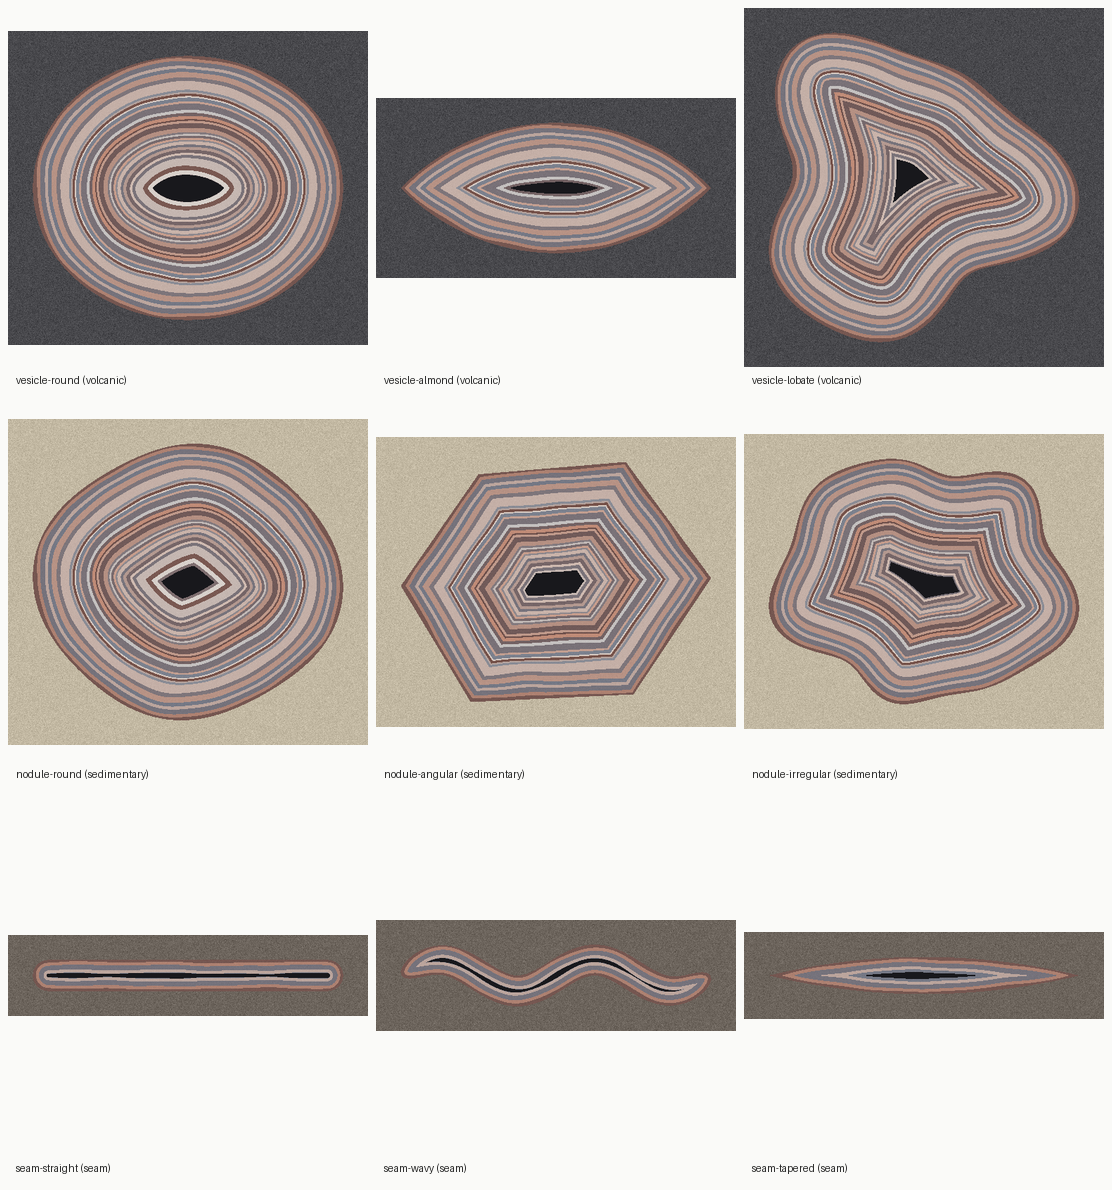
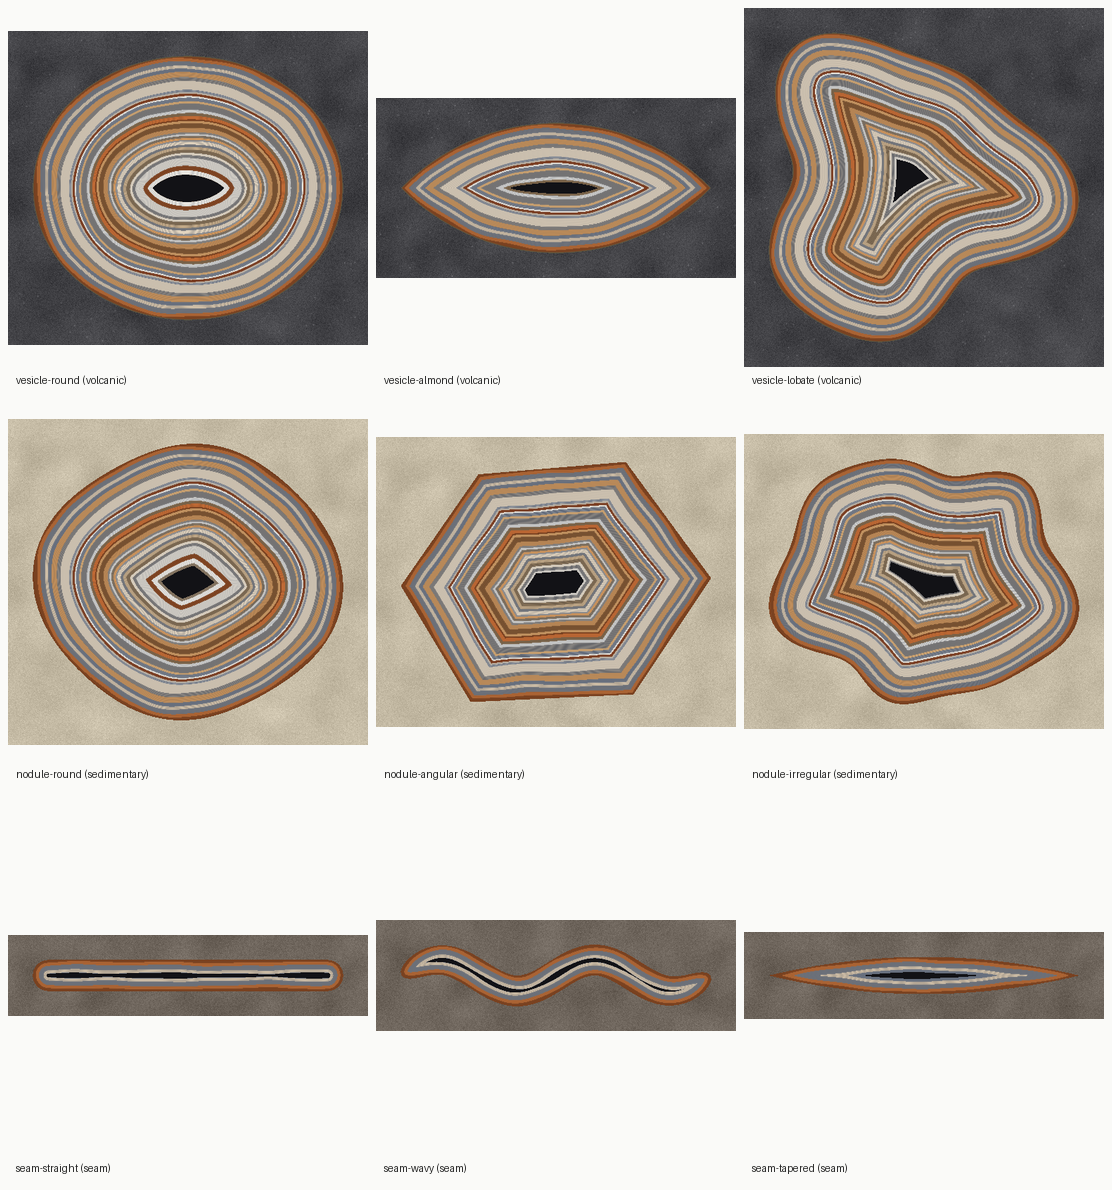
Rendering touch-up; plan specimen photo analysis (ADR 0006)
Renderer: fine sub-banding within bands, glow in translucent bands,
ochre-to-deep-red iron palette, mottled host rock with phenocryst specks,
celadonite rind for volcanic hosts. Noise smoothed periodically to avoid
edge artefacts. Render tests added.

ADR 0006 plans photo upload, identification via the archetype criteria,
and replication; roadmap gains M7 and M10 for specimen analysis.

diff --git a/src/agatesim/render.py b/src/agatesim/render.py
@@ -1,8 +1,14 @@
 """Render a polished-slab view of a result in reflected light.
 
-A first, non-physical renderer (the optical renderer is M6). Under reflected
-light, milky bands look bright, clear bands look dark (light enters and is lost),
-and iron staining tints toward rust.
+A non-physical, appearance-only renderer; the optical renderer arrives in M6.
+It reads only Fields and geometry, so it works for any model. Under reflected
+light on a polished slab:
+
+- milky (opaque) bands scatter light back and look bright;
+- clear bands let light in and look dark blue-grey, with a soft glow from
+  material beneath (approximated by blending in a blurred copy);
+- iron staining tints from ochre through orange to deep red as it increases;
+- each band carries faint finer banding, as natural chalcedony does.
 """
 
 from __future__ import annotations
@@ -11,39 +17,111 @@ import numpy as np
 from numpy.typing import NDArray
 from PIL import Image
 
+from agatesim import _scipy
 from agatesim.archetypes import Host
 from agatesim.fields import Phase
+from agatesim.grid import FloatArray
 from agatesim.simulate import SimulationResult
 
-MILKY = np.array([236.0, 233.0, 226.0])
-CLEAR = np.array([104.0, 114.0, 132.0])
-RUST = np.array([168.0, 66.0, 30.0])
-VOID = np.array([24.0, 24.0, 28.0])
+MILKY = np.array([238.0, 235.0, 228.0])
+CLEAR = np.array([86.0, 96.0, 114.0])
+VOID = np.array([18.0, 18.0, 22.0])
+CELADONITE = np.array([78.0, 98.0, 84.0])  # greenish rind typical of volcanic agates
+# Iron-stain palette: (impurity, colour), interpolated piecewise-linearly.
+STAIN = [
+    (0.0, np.array([214.0, 196.0, 160.0])),
+    (0.35, np.array([204.0, 146.0, 72.0])),
+    (0.65, np.array([182.0, 74.0, 36.0])),
+    (1.0, np.array([118.0, 30.0, 22.0])),
+]
 HOST = {
-    Host.VOLCANIC: np.array([72.0, 72.0, 76.0]),
-    Host.SEDIMENTARY: np.array([194.0, 184.0, 162.0]),
-    Host.SEAM: np.array([108.0, 100.0, 92.0]),
+    Host.VOLCANIC: np.array([66.0, 66.0, 70.0]),
+    Host.SEDIMENTARY: np.array([196.0, 186.0, 164.0]),
+    Host.SEAM: np.array([110.0, 101.0, 92.0]),
 }
+
+SUB_BAND_STRENGTH = 0.35
+GLOW_SIGMA_MM = 0.12
+RIND_MM = 0.25
+
+
+def _stain_colour(iron: FloatArray) -> FloatArray:
+    xs = np.array([p for p, _ in STAIN])
+    return np.stack([np.interp(iron, xs, [c[i] for _, c in STAIN]) for i in range(3)], axis=-1)
+
+
+def _smoothstep(lo: float, hi: float, x: FloatArray) -> FloatArray:
+    t = np.clip((x - lo) / (hi - lo), 0.0, 1.0)
+    return t * t * (3 - 2 * t)
+
+
+def _masked_blur(rgb: FloatArray, mask: NDArray[np.bool_], sigma_px: float) -> FloatArray:
+    """Gaussian blur of `rgb` using only pixels in `mask`, so host rock doesn't bleed in."""
+    weight = _scipy.gaussian(mask.astype(np.float64), sigma_px)
+    weight[weight == 0] = 1.0
+    channels = [_scipy.gaussian(rgb[..., i] * mask, sigma_px) / weight for i in range(3)]
+    return np.stack(channels, axis=-1)
+
+
+def _sub_banding(result: SimulationResult) -> FloatArray:
+    """Faint finer banding within each band, from deposition time, in -1..1."""
+    f = result.fields
+    n = int(f.band.max()) + 1
+    if n <= 0:
+        return np.zeros(result.grid.shape)
+    rng = np.random.default_rng(result.config.seed + 2)
+    cycles = rng.uniform(2.0, 6.0, n)  # fine bands per coarse band
+    amplitude = rng.uniform(0.0, 1.0, n) ** 2  # most bands faint, a few strong
+    phase = rng.uniform(0.0, 2 * np.pi, n)
+    b = np.maximum(f.band, 0)
+    t = np.nan_to_num(f.t_dep.astype(np.float64))
+    return amplitude[b] * np.sin(2 * np.pi * t * n * cycles[b] + phase[b])
+
+
+def _host_rock(result: SimulationResult) -> FloatArray:
+    shape = result.grid.shape
+    dx = result.grid.dx
+    rng = np.random.default_rng(result.config.seed + 1)
+    mottle = _scipy.gaussian(rng.standard_normal(shape), 1.5 / dx, wrap=True)
+    mottle /= float(mottle.std()) or 1.0
+    grain = rng.normal(0.0, 1.0, shape)
+    host = result.domain.cavity.host
+    base = HOST[host]
+    rock = base + (4.0 * mottle + 7.0 * grain)[..., None]
+    if host is Host.VOLCANIC:  # sparse, faint pale phenocryst specks
+        specks = _scipy.gaussian(
+            (rng.random(shape) < 0.0006).astype(np.float64), 0.08 / dx, wrap=True
+        )
+        rock += (40.0 * specks / (float(specks.max()) or 1.0))[..., None]
+    return rock
 
 
 def render_slab(result: SimulationResult) -> NDArray[np.uint8]:
     f = result.fields
-    shape = result.grid.shape
-    rng = np.random.default_rng(result.config.seed + 1)
-    grain = rng.normal(0.0, 1.0, (*shape, 1))
-
-    trans = f.translucency[..., None].astype(np.float64)
-    iron = f.impurity[..., None].astype(np.float64)
-    base = CLEAR * trans + MILKY * (1 - trans)
-    stained = RUST * (0.55 + 0.45 * (1 - trans))  # stains look darker in clear bands
-    chalcedony = base * (1 - iron) + stained * iron + 2.5 * grain
-
-    rgb = np.empty((*shape, 3))
+    dx = result.grid.dx
     phase = f.phase
-    rgb[:] = HOST[result.domain.cavity.host] + 9.0 * grain
+    chal = phase == Phase.CHALCEDONY
+
+    trans = np.clip(f.translucency + SUB_BAND_STRENGTH * 0.5 * _sub_banding(result), 0.0, 1.0)
+    iron = f.impurity.astype(np.float64)
+
+    body = CLEAR * trans[..., None] + MILKY * (1 - trans[..., None])
+    stain = _stain_colour(iron) * (0.55 + 0.45 * (1 - trans))[..., None]
+    strength = _smoothstep(0.05, 0.55, iron)[..., None]
+    colour = body * (1 - strength) + stain * strength
+
+    # Light entering clear bands returns softened by the material beneath.
+    glow = _masked_blur(colour, chal, GLOW_SIGMA_MM / dx)
+    mix = (0.45 * trans)[..., None]
+    colour = colour * (1 - mix) + glow * mix
+
+    if result.domain.cavity.host is Host.VOLCANIC:
+        rind = _smoothstep(RIND_MM, 0.0, result.domain.wall_distance)[..., None] * 0.7
+        colour = colour * (1 - rind) + CELADONITE * rind
+
+    rgb = _host_rock(result)
     rgb[phase == Phase.VOID] = VOID
-    is_chalcedony = phase == Phase.CHALCEDONY
-    rgb[is_chalcedony] = chalcedony[is_chalcedony]
+    rgb[chal] = colour[chal]
     return np.clip(np.rint(rgb), 0, 255).astype(np.uint8)
 
 

diff --git a/tests/test_render.py b/tests/test_render.py
@@ -1,0 +1,34 @@
+import numpy as np
+
+from agatesim.config import load_preset
+from agatesim.fields import Phase
+from agatesim.render import render_slab
+from agatesim.simulate import simulate
+
+
+def test_render_shape_and_determinism() -> None:
+    result = simulate(load_preset("fortification").with_resolution(192))
+    a, b = render_slab(result), render_slab(result)
+    assert a.shape == (*result.grid.shape, 3)
+    assert a.dtype == np.uint8
+    np.testing.assert_array_equal(a, b)
+
+
+def test_milky_bands_are_brighter_than_clear_bands() -> None:
+    result = simulate(load_preset("waterline").with_resolution(256))
+    rgb = render_slab(result).astype(np.float64).mean(axis=-1)
+    f = result.fields
+    chal = f.phase == Phase.CHALCEDONY
+    low_iron = chal & (f.impurity < 0.1)
+    milky = low_iron & (f.translucency < 0.3)
+    clear = low_iron & (f.translucency > 0.7)
+    assert milky.any()
+    assert clear.any()
+    assert rgb[milky].mean() > rgb[clear].mean() + 40
+
+
+def test_void_renders_dark() -> None:
+    result = simulate(load_preset("waterline").with_resolution(128))
+    rgb = render_slab(result)
+    void = result.fields.phase == Phase.VOID
+    assert rgb[void].max() < 40

diff --git a/src/agatesim/_scipy.py b/src/agatesim/_scipy.py
@@ -32,8 +32,11 @@ def nearest_true_indices(mask: NDArray[np.bool_]) -> NDArray[np.int64]:
     return cast(NDArray[np.int64], result[1])
 
 
-def gaussian(field: FloatArray, sigma: float) -> NDArray[np.float64]:
-    return cast(NDArray[np.float64], ndimage.gaussian_filter(field, sigma=sigma, mode="nearest"))
+def gaussian(field: FloatArray, sigma: float, *, wrap: bool = False) -> NDArray[np.float64]:
+    """Gaussian blur. `wrap` treats the field as periodic, for smoothing noise
+    without edge artefacts."""
+    mode = "wrap" if wrap else "nearest"
+    return cast(NDArray[np.float64], ndimage.gaussian_filter(field, sigma=sigma, mode=mode))
 
 
 def bilinear(field: FloatArray, rows: FloatArray, cols: FloatArray):

diff --git a/src/agatesim/models/base.py b/src/agatesim/models/base.py
@@ -93,7 +93,7 @@ def smooth_noise(domain: Domain, scale_mm: float, rng: np.random.Generator) -> F
     x_lo, y_hi = xmin - pad, ymax + pad
     n_cols = math.ceil((xmax - xmin + 2 * pad) / h) + 1
     n_rows = math.ceil((ymax - ymin + 2 * pad) / h) + 1
-    lattice = _scipy.gaussian(rng.standard_normal((n_rows, n_cols)), sigma=4.0)
+    lattice = _scipy.gaussian(rng.standard_normal((n_rows, n_cols)), sigma=4.0, wrap=True)
     lattice /= float(lattice.std()) or 1.0
     xx, yy = domain.grid.coords()
     return _scipy.bilinear(lattice, (y_hi - yy) / h, (xx - x_lo) / h)

diff --git a/docs/adr/0006-specimen-photo-analysis.md b/docs/adr/0006-specimen-photo-analysis.md
@@ -1,0 +1,71 @@
+# 6. Specimen photo analysis: identify, measure, replicate
+
+- Status: accepted (plan; implementation in M7 and M10)
+- Date: 2026-10-15
+
+## Context
+
+The owner wants users to be able to provide specimen photos, and agatesim to
+**identify** the archetypal forms in a photo, **analyze** them, and **replicate**
+them in simulation. This is an inverse problem, harder than forward simulation.
+Photos vary in lighting, polish, viewing angle and scale, and a photo shows only
+the appearance of a single cut surface.
+
+## Decision
+
+Treat a photo as one more producer of **observed fields**, judged by the same
+machinery as simulations.
+
+```
+photo ─► observed fields ─► archetype criteria ─► identification (which forms pass)
+                          └► band statistics  ─► parameter fit ─► replica run ─► side-by-side
+```
+
+1. **Same criteria, same contract.** Criteria already read only `Fields` plus
+   cavity geometry (ADR 0003). Photo analysis produces an estimated `Fields`, so
+   the archetype ladder identifies forms in photos with no separate classifier.
+   This keeps the criteria honest twice over: they must work on real agate, not
+   only on our own models.
+2. **Constrained input, stated plainly.** The supported input is a photo of a flat
+   cut or polished slab, taken roughly perpendicular, with a scale given (a scale
+   bar or an entered size). Other photos are rejected or flagged as low
+   confidence.
+3. **Human in the loop first.** The user confirms or traces the cavity outline,
+   using the M4 drawing tool, and the gravity direction if known. Automatic
+   segmentation suggests; it doesn't decide.
+4. **Staged implementation:**
+   - **M7: Specimen analysis I (structure).** Upload and scale. Outline. Band
+     boundaries from edge detection and an orientation (structure-tensor) field.
+     Estimate the band index, translucency and iron-stain fields. Run every
+     implemented criterion and report each form as identified, ambiguous or not
+     present, with values. Fit **procedural** parameters directly from measured
+     statistics (band spacing, contrast, fill level, gravity), run a replica, and
+     show it side by side with the photo.
+   - **M10: Specimen analysis II (mechanisms).** Simulation-based inference over
+     **mechanistic** parameters: which conditions, under which hypothesis,
+     reproduce this specimen, and with what uncertainty. Optionally a learned
+     classifier, trained on the reference set plus simulated data.
+5. **Reference set as test data.** The openly licensed specimen photos in
+   `references/images/` become regression tests for photo analysis. For example,
+   a photo catalogued as waterline banding must be identified as waterline.
+6. **Privacy.** Uploaded photos stay on the user's machine in the local app.
+   Nothing is sent anywhere. If a hosted version ever exists, uploads will need
+   their own policy.
+
+## Why not earlier, or larger
+
+- Identification needs the criteria for the forms in question, so analysis
+  follows the structural archetypes (M3–M5). Faithful visual comparison needs
+  the optical renderer (M6).
+- A learned classifier first would need many labelled specimens, and a
+  classifier can't explain its answer. Criteria-based identification can.
+
+## Consequences
+
+- New criteria must be robust on noisy, real-world fields, not just clean
+  simulation output. Photo analysis will expose criteria that are too fragile.
+- A shared `band statistics` module (spacing distribution, contrast, orientation
+  histogram) becomes the common language between runs and photos. It starts in
+  M3 for comparing runs.
+- Scope stays bounded: no 3D reconstruction from photos, and no analysis of
+  rough or unpolished specimens.

diff --git a/docs/roadmap.md b/docs/roadmap.md
@@ -6,10 +6,12 @@ Milestones end with a check-in: results, images, and the next decisions.
 |---|---|---|
 | **M0: Foundation** | Repository layout, ADRs, archetype registry (12 forms, all pending), reference catalogue, science notes draft, CI | done |
 | **M1: First procedural models** | 2D grid and exact cavity geometry; 9 preset cavity shapes (volcanic, sedimentary, seam); run config and records; procedural fortification, seam and waterline, verified with negative controls; `agatesim run` CLI; PNG output | done |
-| **M2: Web UI v1** | FastAPI backend; React app with parameter panel, preset shape menu, live preview, run browser, slab viewer | next |
-| **M3: Schedules and the combined form** | Conditions that vary over time; combined fortification–waterline; quartz-centre geode | |
+| **M2: Web UI v1** | Rendering touch-up; first openly licensed specimen photos; FastAPI backend; React app with parameter panel, preset shape menu, live preview, run browser, slab viewer | in progress |
+| **M3: Schedules and the combined form** | Conditions that vary over time; combined fortification–waterline; quartz-centre geode; band-statistics module for comparing runs | |
 | **M4: Drawing tool and nucleation** | Freehand cavity drawing; nucleation sites → botryoidal, eye, tube | |
 | **M5: Dendrites** | Diffusion-limited growth → moss, plume | |
 | **M6: Optical renderer** | Translucency and colour → shadow; wave optics → iris | |
-| **M7: Mechanistic models** | Reaction–diffusion / phase-field (H2), front feedback (H1), settling (H4); GPU backend | |
-| **M8: 3D** | Volumetric runs, slicing in the viewer | |
+| **M7: Specimen analysis I** | Photo upload and scale; outline tracing; observed fields from photos; identify forms with the archetype criteria; fit procedural parameters; replica side by side ([ADR 0006](adr/0006-specimen-photo-analysis.md)) | |
+| **M8: Mechanistic models** | Reaction–diffusion / phase-field (H2), front feedback (H1), settling (H4); GPU backend | |
+| **M9: 3D** | Volumetric runs, slicing in the viewer | |
+| **M10: Specimen analysis II** | Simulation-based inference of mechanistic conditions from photos, with uncertainty | |
